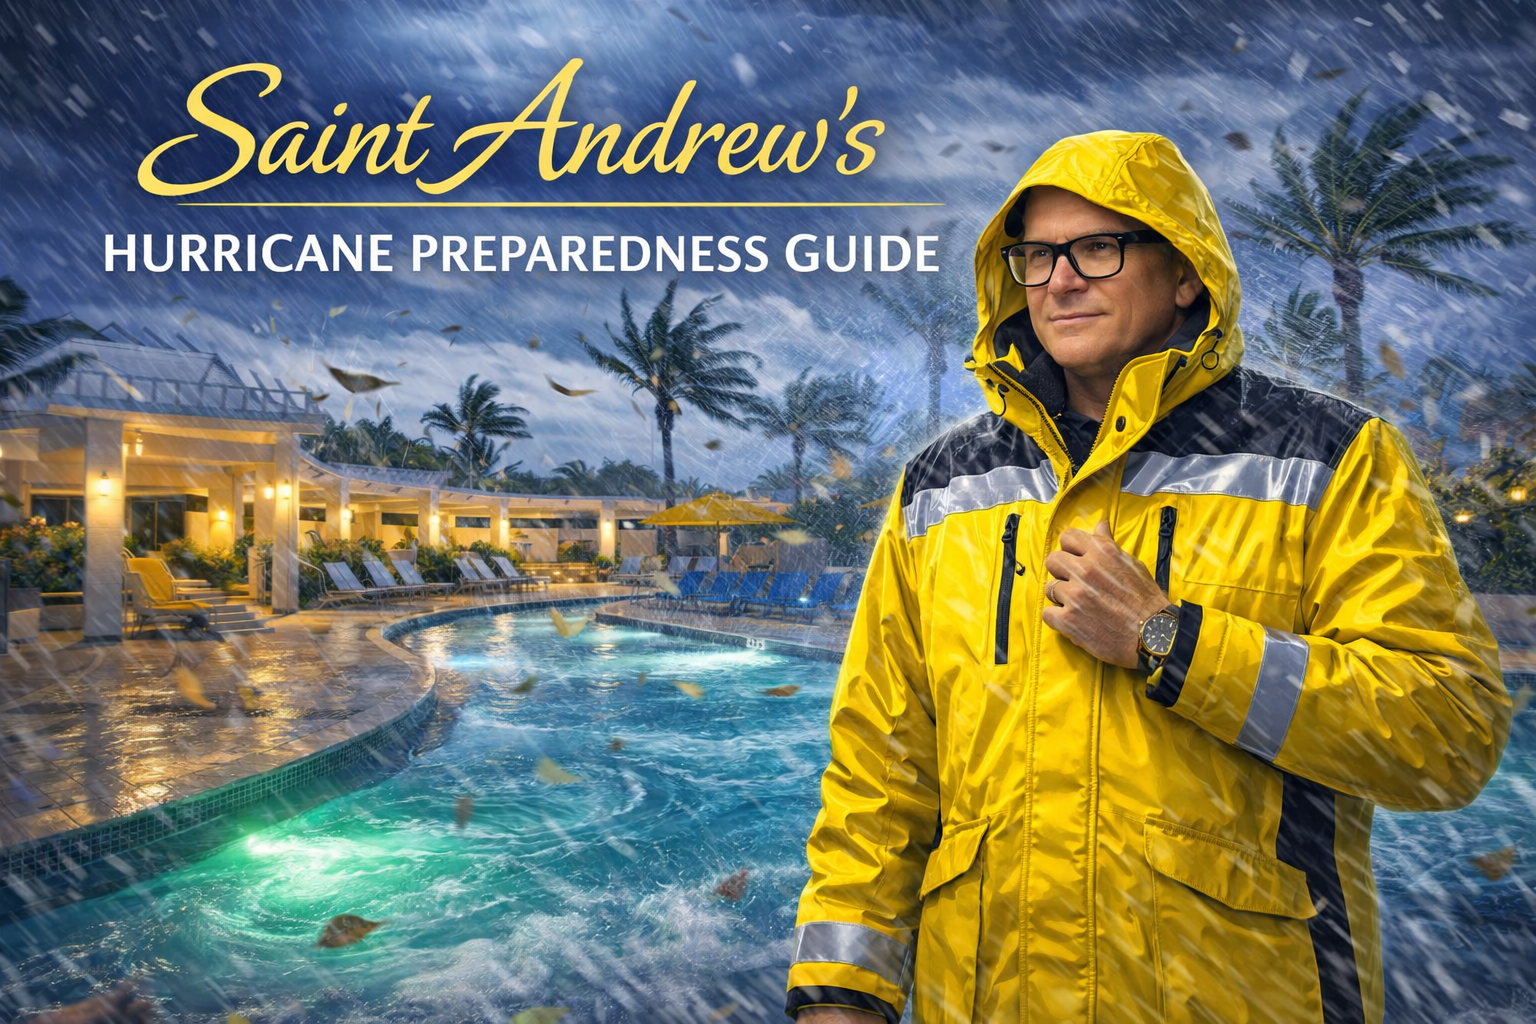
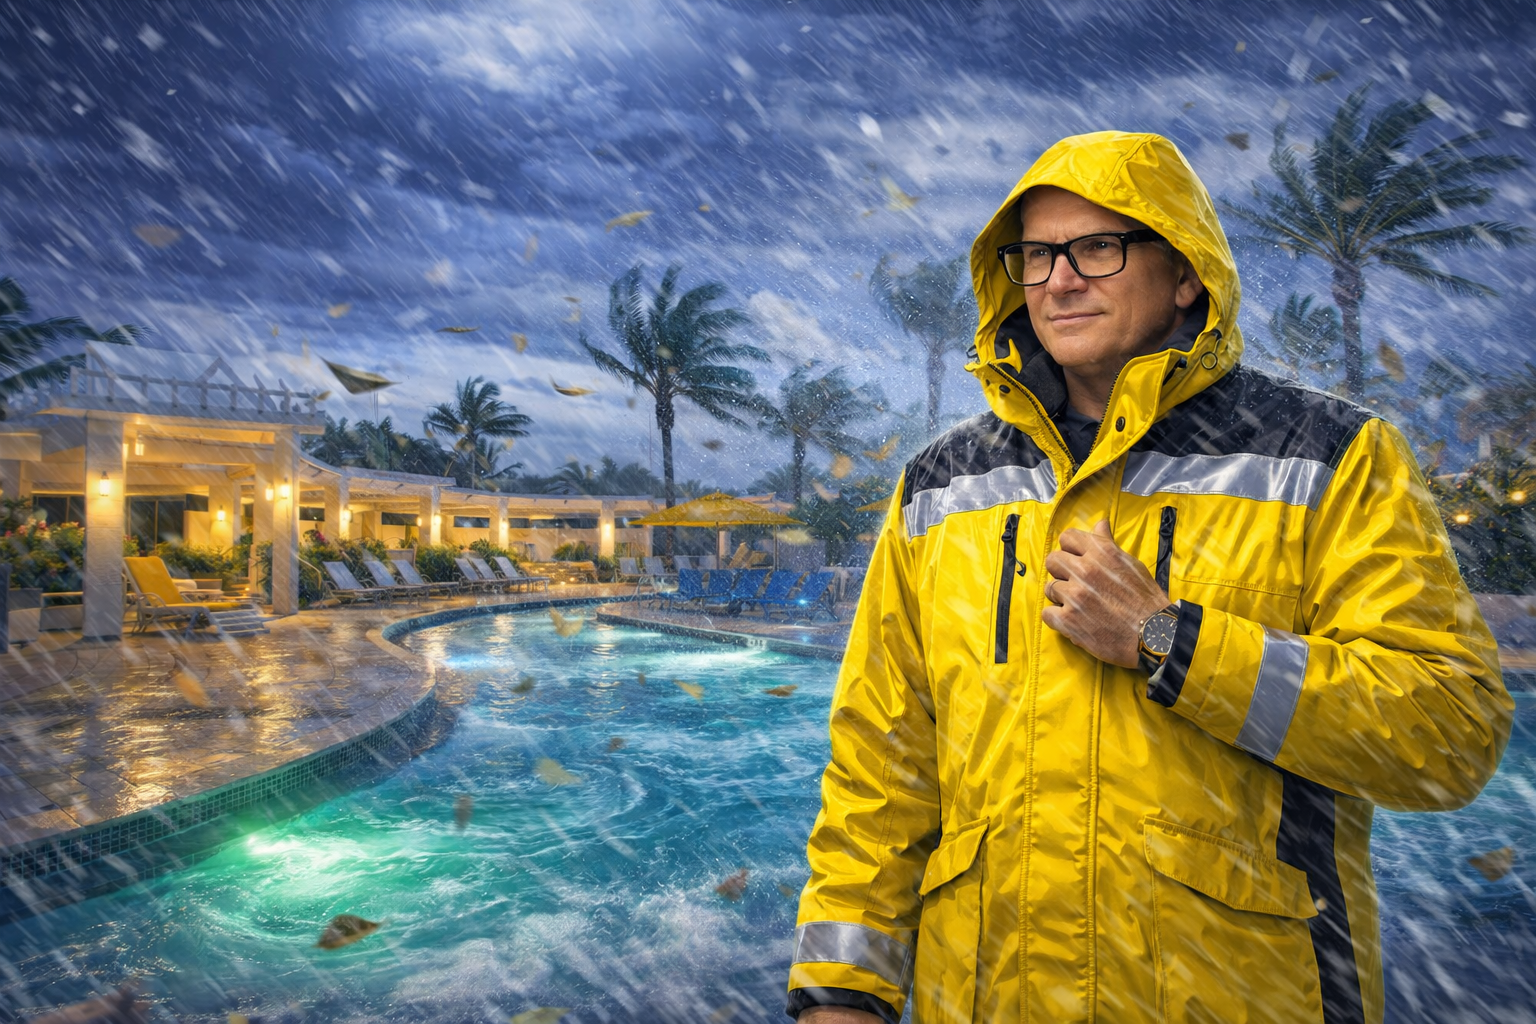
Swap hero cover image and boost text contrast
Replace cover with more dramatic storm shot. Add text shadows
to all hero elements, bump font weights, and refine the overlay
gradient for stronger readability against the photo background.

diff --git a/hurricane-guide-2026/index.html b/hurricane-guide-2026/index.html
@@ -217,9 +217,9 @@
             inset: 0;
             background: linear-gradient(
                 to bottom,
-                rgba(26, 62, 92, 0.55) 0%,
-                rgba(26, 62, 92, 0.70) 50%,
-                rgba(26, 62, 92, 0.85) 100%
+                rgba(10, 20, 35, 0.45) 0%,
+                rgba(26, 62, 92, 0.55) 40%,
+                rgba(10, 20, 35, 0.75) 100%
             );
             z-index: 0;
         }
@@ -229,44 +229,48 @@
         }
         .hero-pre {
             font-size: 13px;
-            font-weight: 500;
+            font-weight: 600;
             letter-spacing: 0.2em;
             text-transform: uppercase;
             color: var(--blue);
             margin-bottom: 24px;
+            text-shadow: 0 1px 6px rgba(0,0,0,0.5);
         }
         .hero h1 {
             font-size: 52px;
-            font-weight: 300;
+            font-weight: 400;
             letter-spacing: 0.08em;
             text-transform: uppercase;
             line-height: 1.2;
             margin-bottom: 16px;
-            color: var(--hero-text);
+            color: #ffffff;
+            text-shadow: 0 2px 12px rgba(0,0,0,0.6), 0 1px 3px rgba(0,0,0,0.4);
         }
         .hero h1 span {
             display: block;
-            font-weight: 600;
+            font-weight: 700;
             font-size: 60px;
             color: var(--blue);
+            text-shadow: 0 2px 16px rgba(0,0,0,0.7), 0 1px 3px rgba(0,0,0,0.5);
         }
         .hero-sub {
             font-size: 18px;
-            font-weight: 400;
+            font-weight: 500;
             letter-spacing: 0.05em;
             margin-bottom: 40px;
-            color: var(--hero-text);
-            opacity: 0.85;
+            color: #ffffff;
+            text-shadow: 0 1px 8px rgba(0,0,0,0.5);
         }
         .hero-community {
             font-size: 15px;
-            font-weight: 500;
+            font-weight: 600;
             letter-spacing: 0.15em;
             text-transform: uppercase;
-            border-top: 1px solid rgba(255,255,255,0.2);
+            border-top: 1px solid rgba(255,255,255,0.3);
             padding-top: 24px;
             margin-top: 8px;
-            color: var(--hero-text);
+            color: #ffffff;
+            text-shadow: 0 1px 8px rgba(0,0,0,0.5);
         }
         .hero-accent-bar {
             width: 60px;
@@ -276,11 +280,12 @@
         }
         .hero-logo {
             margin-top: 40px;
-            color: var(--hero-text);
-            opacity: 0.7;
+            color: #ffffff;
+            opacity: 0.85;
             font-size: 12px;
             letter-spacing: 0.15em;
             text-transform: uppercase;
+            text-shadow: 0 1px 6px rgba(0,0,0,0.5);
         }
         .hero-logo strong {
             font-weight: 600;
